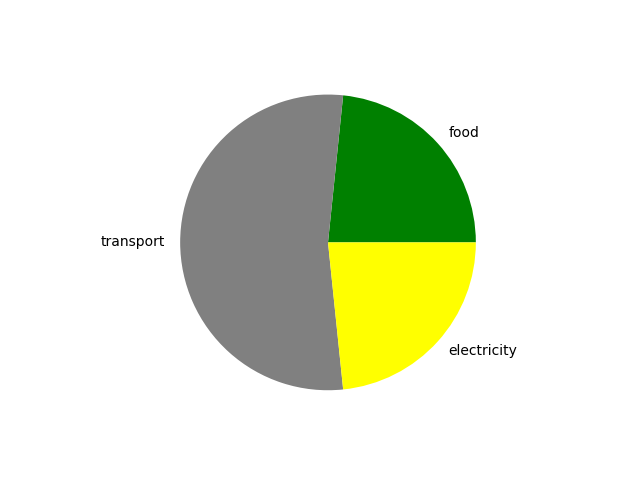
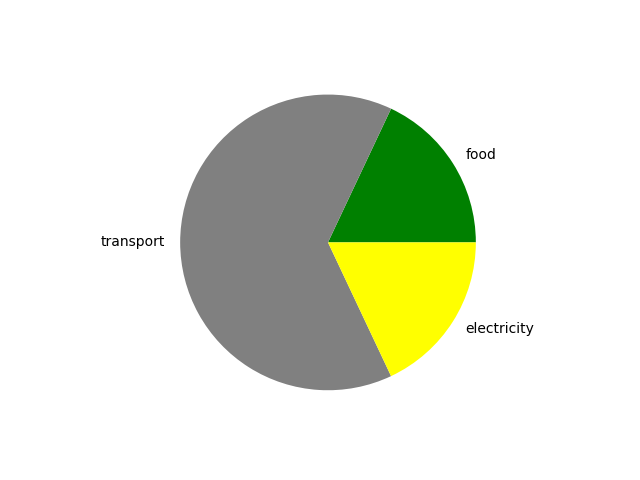
fuck yes

Changed region(s): [[0.5, 0.1875, 0.625, 0.8125], [0.6875, 0.6562, 0.8438, 0.75], [0.6875, 0.25, 0.7812, 0.3438]]

diff --git a/Chart.py b/Chart.py
@@ -24,7 +24,8 @@ def piechart():
     transport += float(doc['transport'])
     electricity += float(doc['electricity'])
 
-    data = [food, transport, electricity]
+    data = [d.GetItem.get_total('food'), d.GetItem.get_total(
+        'transport'), d.GetItem.get_total('electricity')]
     chartLabels = ['food', 'transport', 'electricity']
     chartColors = ['green', 'grey', 'yellow']
     plt.clf()
